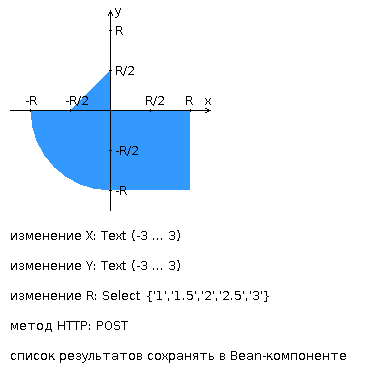
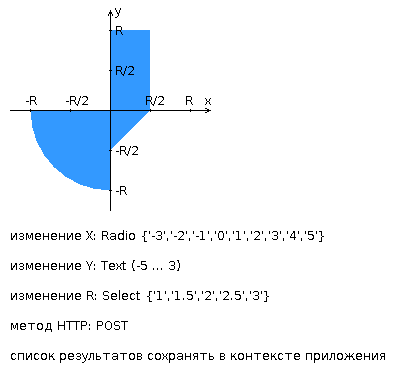
use jstl

diff --git a/src/main/webapp/validation.js b/src/main/webapp/validation.js
@@ -1,27 +1,11 @@
 // noinspection UnnecessaryReturnStatementJS
 
 let hitDataForm = document.querySelector("#hitDataForm");
-let xInput = hitDataForm.querySelector("#xInput");
 let yInput = hitDataForm.querySelector("#yInput");
 
 let floatRegex = /^-?\d+(\.\d+)?$/
 
 hitDataForm.addEventListener("submit", event => {
-    let xAsStr = xInput.value.trim()
-    if(!floatRegex.test(xAsStr)) {
-        event.preventDefault();
-        alert("x: " + xAsStr + " не является числом");
-        return
-    }
-
-    let x = parseFloat(xAsStr);
-
-    if (!(-3 < x && x < 3)) {
-        event.preventDefault();
-        alert("x: " + xAsStr + " не лежит в диапазоне (-3;3)")
-        return
-    }
-
     let yAsStr = yInput.value.trim()
 
     if(!floatRegex.test(yAsStr)) {
@@ -30,11 +14,11 @@ hitDataForm.addEventListener("submit", event => {
         return
     }
 
-    let y = parseFloat(xAsStr);
+    let y = parseFloat(yAsStr);
 
-    if (!(-3 < y && y < 3)) {
+    if (!(-5 < y && y < 3)) {
         event.preventDefault();
-        alert("y: " + yAsStr + " не лежит в диапазоне (-3;3)")
+        alert("y: " + yAsStr + " не лежит в диапазоне (-5;3)")
         return
     }
 })

diff --git a/src/main/java/edu/ifmo/web/AreaCheckServlet.java b/src/main/java/edu/ifmo/web/AreaCheckServlet.java
@@ -6,9 +6,14 @@ import javax.servlet.http.HttpServletRequest;
 import javax.servlet.http.HttpServletResponse;
 import java.io.IOException;
 import java.io.PrintWriter;
+import java.util.ArrayList;
+import java.util.List;
+
 
 @WebServlet(value = "/check-area")
 public class AreaCheckServlet extends HttpServlet {
+    private final List<HitResult> hits = new ArrayList<>();
+
     @Override
     protected void doPost(HttpServletRequest req, HttpServletResponse resp) throws IOException {
         float x = (float) req.getAttribute("x");
@@ -22,8 +27,8 @@ public class AreaCheckServlet extends HttpServlet {
         hitResult.setR(r);
         hitResult.setDoesHit(doesHit);
 
-        HitStorage hitStorage = (HitStorage) req.getSession().getServletContext().getAttribute("hitStorage");
-        hitStorage.getHits().add(hitResult);
+        hits.add(hitResult);
+        getServletContext().setAttribute("hits", hits);
 
         resp.setContentType("text/html;charset=UTF-8");
         PrintWriter writer = resp.getWriter();
@@ -61,7 +66,7 @@ public class AreaCheckServlet extends HttpServlet {
 
     @SuppressWarnings("RedundantIfStatement")
     private boolean doesHit(float r, float x, float y) {
-        if (0 <= x && x <= r && -r <= y && y <= 0) {
+        if (x <= r/2 && y <= r) {
             return true;
         }
 
@@ -69,7 +74,7 @@ public class AreaCheckServlet extends HttpServlet {
             return true;
         }
 
-        if (x <= 0 && y >= 0 && y <= x + r/2) {
+        if (x >= 0 && y <= 0 && y >= x - r/2) {
             return true;
         }
 
